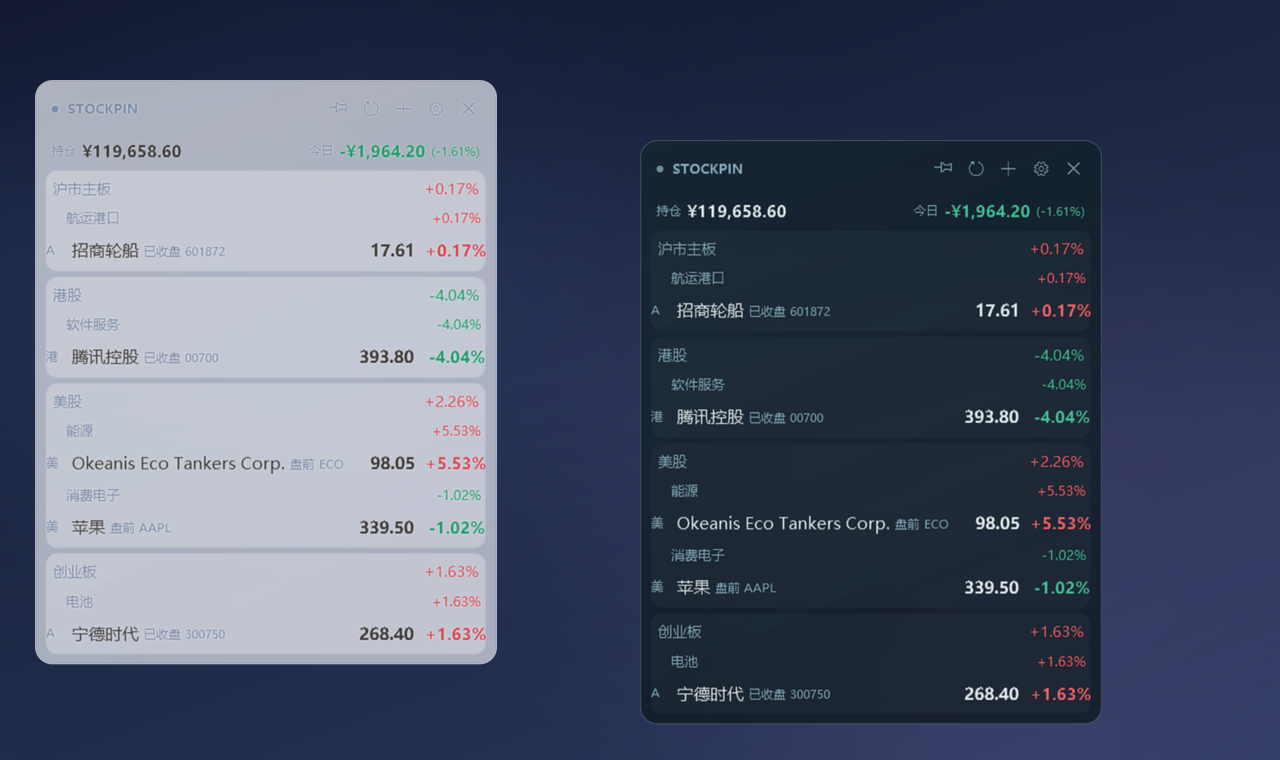
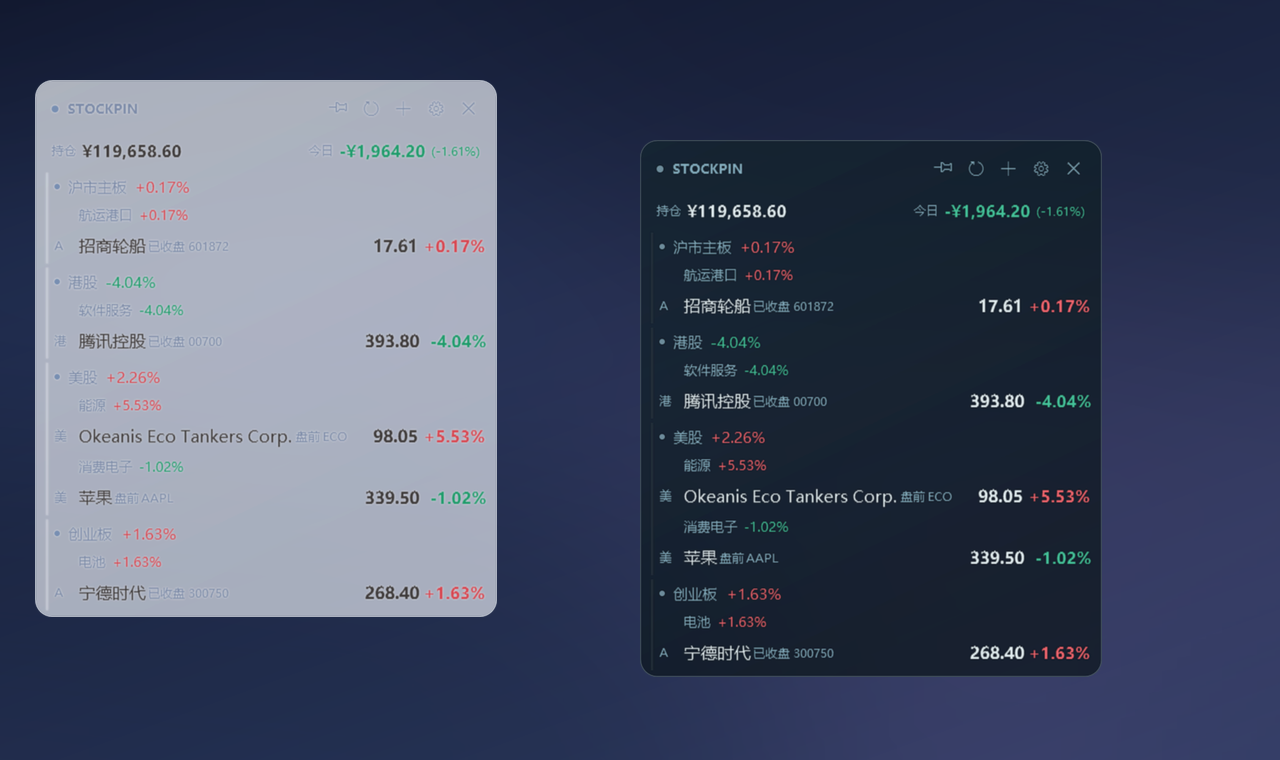
v1.5.0: lighter rail layout for grouping

diff --git a/Views/MainWindow.xaml b/Views/MainWindow.xaml
@@ -71,19 +71,19 @@
                            Foreground="{DynamicResource TextMuted}" VerticalAlignment="Center" />
 
                 <StackPanel Grid.Column="1" Orientation="Horizontal"
-                            VerticalAlignment="Center" Margin="4,0,4,0">
+                            VerticalAlignment="Center" Margin="3,0,3,0">
                     <TextBlock Text="{Binding DisplayName}" FontSize="12"
                                Foreground="{DynamicResource TextPrimary}"
                                TextTrimming="CharacterEllipsis" MaxWidth="156"
                                VerticalAlignment="Center" />
 
                     <TextBlock Text="{Binding SessionText}" FontSize="9"
-                               Foreground="{DynamicResource TextMuted}" Margin="3,1,0,0"
+                               Foreground="{DynamicResource TextMuted}" Margin="2,1,0,0"
                                VerticalAlignment="Center"
                                Visibility="{Binding HasSessionText, Converter={StaticResource BoolToVis}}" />
 
                     <TextBlock Text="{Binding Code}" FontSize="9"
-                               Foreground="{DynamicResource TextMuted}" Margin="3,1,0,0"
+                               Foreground="{DynamicResource TextMuted}" Margin="2,1,0,0"
                                VerticalAlignment="Center"
                                Visibility="{Binding DataContext.ShowCode,
                                    RelativeSource={RelativeSource AncestorType=Window},
@@ -93,12 +93,12 @@
                 <TextBlock Grid.Column="2" Text="{Binding PriceText}" FontSize="12"
                            FontWeight="SemiBold" Foreground="{DynamicResource TextPrimary}"
                            HorizontalAlignment="Right" VerticalAlignment="Center"
-                           TextAlignment="Right" MinWidth="44" Margin="0,0,5,0" />
+                           TextAlignment="Right" MinWidth="42" Margin="0,0,4,0" />
 
                 <TextBlock Grid.Column="3" Text="{Binding ChangePctText}"
                            Tag="{Binding DirectionText}" Style="{StaticResource DirectionText}"
                            FontSize="11.5" FontWeight="SemiBold" HorizontalAlignment="Right"
-                           VerticalAlignment="Center" TextAlignment="Right" MinWidth="46" />
+                           VerticalAlignment="Center" TextAlignment="Right" MinWidth="44" />
             </Grid>
         </DataTemplate>
 
@@ -180,47 +180,38 @@
                     <ItemsControl ItemsSource="{Binding Boards}" Margin="7,0,7,0">
                         <ItemsControl.ItemTemplate>
                             <DataTemplate>
-                                <Border CornerRadius="8" Background="{DynamicResource GroupBg}"
-                                        Margin="0,2" Padding="0,2">
+                                <Border BorderBrush="{DynamicResource Divider}" BorderThickness="2,0,0,0"
+                                        Padding="4,0,0,0" Margin="0,3,0,0">
                                     <StackPanel>
-                                        <Grid Height="22" Margin="5,0,5,0">
-                                            <Grid.ColumnDefinitions>
-                                                <ColumnDefinition Width="*" />
-                                                <ColumnDefinition Width="Auto" />
-                                            </Grid.ColumnDefinitions>
-
-                                            <TextBlock Grid.Column="0" Text="{Binding Name}" FontSize="10"
+                                        <StackPanel Orientation="Horizontal" Height="20" Margin="0,0,0,1">
+                                            <Ellipse Width="4" Height="4" Fill="{DynamicResource Accent}"
+                                                     Margin="0,0,6,0" VerticalAlignment="Center" />
+                                            <TextBlock Text="{Binding Name}" FontSize="10"
                                                        Foreground="{DynamicResource TextMuted}"
-                                                       VerticalAlignment="Center"
-                                                       TextTrimming="CharacterEllipsis" />
-
-                                            <TextBlock Grid.Column="1" Text="{Binding ChangePctText}"
+                                                       MaxWidth="140" TextTrimming="CharacterEllipsis"
+                                                       VerticalAlignment="Center" />
+                                            <TextBlock Text="{Binding ChangePctText}"
                                                        Tag="{Binding DirectionText}"
                                                        Style="{StaticResource DirectionText}" FontSize="10"
-                                                       VerticalAlignment="Center" />
-                                        </Grid>
+                                                       Margin="6,0,0,0" VerticalAlignment="Center" />
+                                        </StackPanel>
 
                                         <ItemsControl ItemsSource="{Binding Sectors}">
                                             <ItemsControl.ItemTemplate>
                                                 <DataTemplate>
                                                     <StackPanel>
-                                                        <Grid Height="20" Margin="14,0,4,0">
-                                                            <Grid.ColumnDefinitions>
-                                                                <ColumnDefinition Width="*" />
-                                                                <ColumnDefinition Width="Auto" />
-                                                            </Grid.ColumnDefinitions>
-
-                                                            <TextBlock Grid.Column="0" Text="{Binding Name}"
-                                                                       FontSize="9.5"
+                                                        <StackPanel Orientation="Horizontal" Height="18"
+                                                                    Margin="18,0,0,1">
+                                                            <TextBlock Text="{Binding Name}" FontSize="9.5"
                                                                        Foreground="{DynamicResource TextMuted}"
-                                                                       VerticalAlignment="Center"
-                                                                       TextTrimming="CharacterEllipsis" />
-
-                                                            <TextBlock Grid.Column="1" Text="{Binding ChangePctText}"
+                                                                       MaxWidth="170" TextTrimming="CharacterEllipsis"
+                                                                       VerticalAlignment="Center" />
+                                                            <TextBlock Text="{Binding ChangePctText}"
                                                                        Tag="{Binding DirectionText}"
                                                                        Style="{StaticResource DirectionText}"
-                                                                       FontSize="9.5" VerticalAlignment="Center" />
-                                                        </Grid>
+                                                                       FontSize="9.5" Margin="5,0,0,0"
+                                                                       VerticalAlignment="Center" />
+                                                        </StackPanel>
 
                                                         <ItemsControl ItemsSource="{Binding Stocks}"
                                                                       ItemTemplate="{StaticResource StockRowTemplate}" />

diff --git a/Core/ThemeManager.cs b/Core/ThemeManager.cs
@@ -137,7 +137,6 @@ public static class ThemeManager
             ["Accent"] = ThemePalette.Solid(p.Accent),
             ["AccentSoft"] = ThemePalette.Solid(p.AccentSoft),
             ["Surface"] = ThemePalette.Solid(p.Surface),
-            ["GroupBg"] = ThemePalette.Solid(p.IsDark ? p.Surface : "#2EFFFFFF"),
             ["RowHover"] = ThemePalette.Solid(p.Hover),
             ["ChipBg"] = ThemePalette.Solid(p.ChipBg),
             ["ChipText"] = ThemePalette.Solid(p.ChipText),

diff --git a/README.md b/README.md
@@ -1,4 +1,4 @@
-# StockPin
+# StockPin
 
 **轻量、半透明、始终置顶的桌面股票盯盘小工具** · A股 / 港股 / 美股 · Windows 10 / 11
 
@@ -6,7 +6,7 @@
 [![.NET](https://img.shields.io/badge/.NET-8.0-5b6ea8?style=flat-square)](https://dotnet.microsoft.com/)
 [![License](https://img.shields.io/badge/license-MIT-5b6ea8?style=flat-square)](LICENSE)
 
-![StockPin](docs/hero.png?v=1.4.0)
+![StockPin](docs/hero.png?v=1.5.0)
 
 ## 功能
 
@@ -47,7 +47,7 @@
 5. **设置 → 自选股票**：输入代码或名称添加；填好数量和成本价后，面板会立即更新模拟持仓。
 6. 点 **×** 只是收进托盘；托盘图标右键可再次显示面板或退出。
 
-![设置](docs/settings.png?v=1.4.0)
+![设置](docs/settings.png?v=1.5.0)
 
 ## 主题
 
@@ -55,7 +55,7 @@
 
 > 面板背景强度默认 70%：既能透出桌面，又能保证在游戏、视频等复杂画面上看清。喜欢纯文字可以把「外观 → 背景强度」拉到 0%。
 
-![主题](docs/appearance.png?v=1.4.0)
+![主题](docs/appearance.png?v=1.5.0)
 
 ## 数据来源
 
